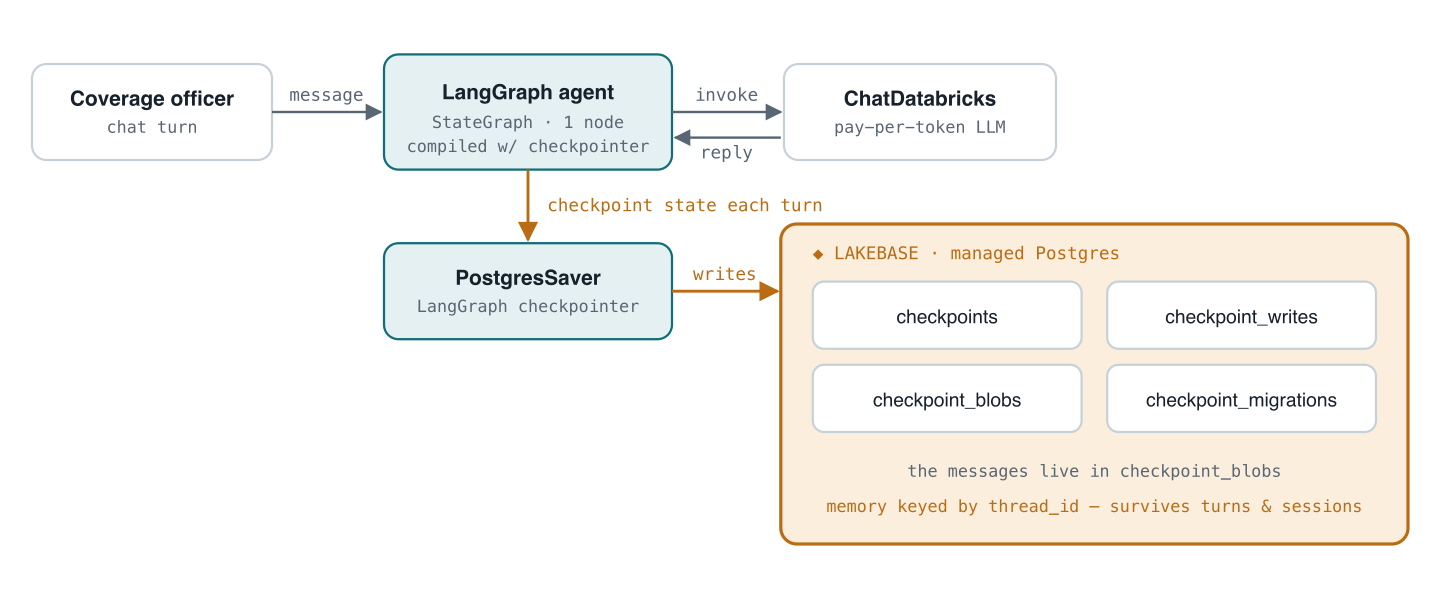
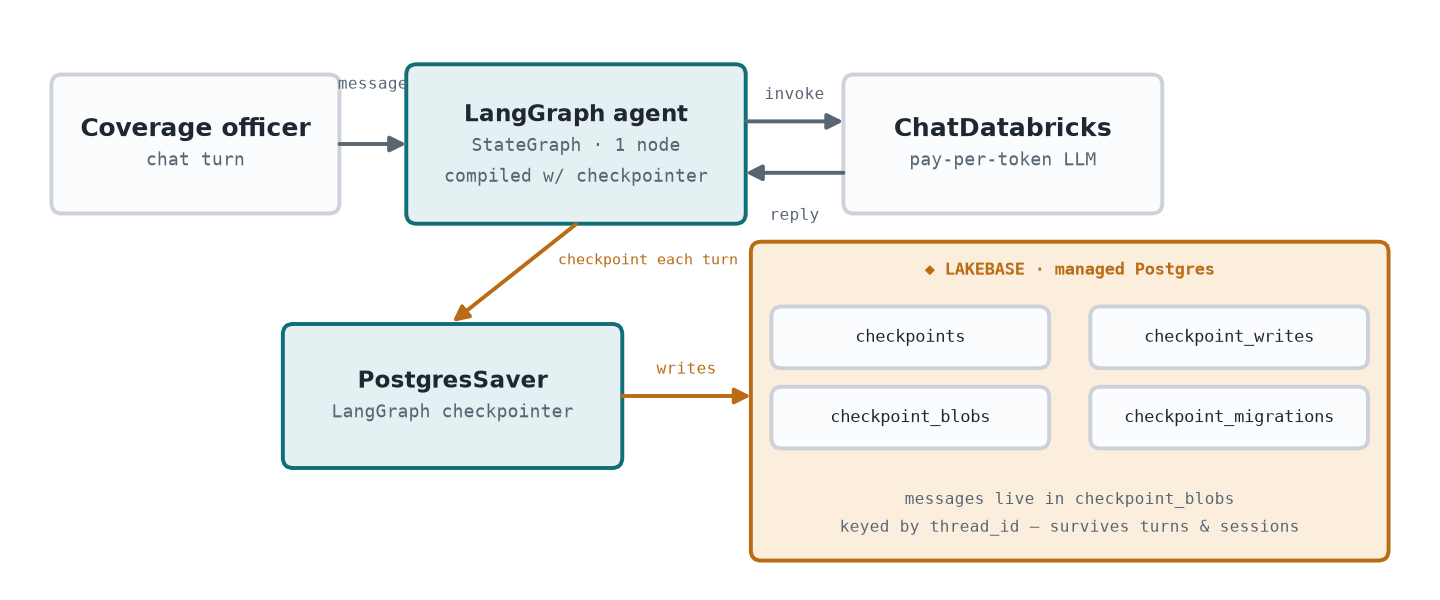
Diagrams: regenerate all six from one generator for a consistent look
Extend scripts/diagrams/build_diagrams.py to build every exercise diagram
(Ex1/3/4/5 in addition to Ex6/7) so all six share one house style and one
source of truth. Re-rendered the four that were previously the original
embedded PNGs — same content, now matching palette/typography/stroke and
regenerable:
- Ex1: load -> autoscaling branch (ascending CU bars) -> scale to zero
- Ex3: REST (HTTPS · OAuth · JSON) and JDBC both reaching the branch
- Ex4: BUILD (features -> sync -> online store) + SERVE (Feature Serving ->
  lookup_client_risk tool <- Coverage Desk Assistant), FeatureSpec elbow
- Ex5: LangGraph agent -> PostgresSaver -> checkpoints/checkpoint_writes/
  checkpoint_blobs/checkpoint_migrations, keyed by thread_id

Run `python scripts/diagrams/build_diagrams.py [exN ...]` to rebuild.

diff --git a/scripts/diagrams/build_diagrams.py b/scripts/diagrams/build_diagrams.py
@@ -1,18 +1,18 @@
 #!/usr/bin/env python3
-"""Regenerate the Ex6 / Ex7 architecture diagrams as PNGs.
+"""Regenerate every exercise's architecture diagram as a PNG, in one house style.
 
-These two round-trip diagrams are kept in sync with the current labs here (the
-other exercises' diagrams were produced earlier and embedded as-is). Style is
-matched to those: white ground, teal for lakehouse/Delta artifacts, orange for
-Lakebase, gray for infrastructure, monospace sub-labels.
+    python scripts/diagrams/build_diagrams.py            # all
+    python scripts/diagrams/build_diagrams.py ex4 ex7    # just some
 
-    python scripts/diagrams/build_diagrams.py
+Style: white ground; teal = lakehouse / Delta / built artifacts, orange =
+Lakebase, gray = infrastructure & external actors; monospace sub-labels; 1408px
+wide (taller diagrams keep proportion). Edit the builders below and re-run — this
+script is the single source of truth for the diagrams embedded in the READMEs.
 
-Requires matplotlib. Writes:
-    labs/06-delta-to-lakebase-sync/images/ex6-delta-sync.png
-    labs/07-lakebase-cdf-to-scd1/images/ex7-cdf-scd1.png
+Requires matplotlib. Each builder writes to labs/<ex>/images/<name>.png.
 """
 import os
+import sys
 import matplotlib
 matplotlib.use("Agg")
 import matplotlib.pyplot as plt
@@ -20,97 +20,219 @@ from matplotlib.patches import FancyBboxPatch, FancyArrowPatch
 
 REPO = os.path.abspath(os.path.join(os.path.dirname(__file__), "..", ".."))
 
-# ── palette (sampled from the existing diagrams) ───────────────────────────
-BG          = "#ffffff"
-TEAL_EDGE   = "#0f6e78"; TEAL_FILL   = "#e4f0f1"
-ORANGE_EDGE = "#b96c13"; ORANGE_FILL = "#fbeedd"
-GRAY_EDGE   = "#cdd2da"; GRAY_FILL   = "#fbfcfd"
-TITLE       = "#1f2733"
-SUB         = "#586673"
-ARROW_GRAY  = "#586673"
-ARROW_ORANGE= "#b96c13"
-
-KIND = {
-    "teal":   (TEAL_EDGE,   TEAL_FILL),
-    "orange": (ORANGE_EDGE, ORANGE_FILL),
-    "gray":   (GRAY_EDGE,   GRAY_FILL),
-}
+# ── palette (sampled from the original embedded diagrams) ──────────────────
+BG           = "#ffffff"
+TEAL_EDGE    = "#0f6e78"; TEAL_FILL    = "#e4f0f1"
+ORANGE_EDGE  = "#b96c13"; ORANGE_FILL  = "#fbeedd"
+GRAY_EDGE    = "#cdd2da"; GRAY_FILL    = "#fbfcfd"
+TITLE_COLOR  = "#1f2733"
+SUB_COLOR    = "#586673"
+ARROW_GRAY   = "#586673"
+ARROW_ORANGE = "#b96c13"
+KIND = {"teal": (TEAL_EDGE, TEAL_FILL), "orange": (ORANGE_EDGE, ORANGE_FILL),
+        "gray": (GRAY_EDGE, GRAY_FILL)}
 
 
-def box(ax, x, y, w, h, kind, title, sub=None, caption=None):
-    """Rounded box centered at (x, y). Optional orange caption line at the top."""
-    edge, fill = KIND[kind]
-    ax.add_patch(FancyBboxPatch(
-        (x - w / 2, y - h / 2), w, h,
-        boxstyle="round,pad=0,rounding_size=0.10",
-        linewidth=2.2, edgecolor=edge, facecolor=fill, mutation_aspect=1))
-    top = y + h / 2
-    ty = y + h * 0.10
-    if caption:
-        ax.text(x, top - h * 0.18, caption, ha="center", va="center",
-                family="monospace", fontsize=9.5, color=ORANGE_EDGE, weight="bold")
-        ty = y - h * 0.02
-    ax.text(x, ty, title, ha="center", va="center",
-            fontsize=14, color=TITLE, weight="bold")
-    if sub:
-        ax.text(x, ty - h * 0.26, sub, ha="center", va="center",
-                family="monospace", fontsize=10, color=SUB)
-
-
-def arrow(ax, x0, x1, y, label, color):
-    ax.add_patch(FancyArrowPatch(
-        (x0, y), (x1, y), arrowstyle="-|>", mutation_scale=18,
-        linewidth=2.2, color=color, shrinkA=0, shrinkB=0))
-    ax.text((x0 + x1) / 2, y + 0.16, label, ha="center", va="bottom",
-            family="monospace", fontsize=9.5, color=color)
-
-
-def canvas(w_px, h_px):
+def _canvas(w_px, h_px):
     fig = plt.figure(figsize=(w_px / 128, h_px / 128), dpi=128)
-    ax = fig.add_axes([0, 0, 1, 1]); ax.set_facecolor(BG)
-    fig.patch.set_facecolor(BG)
+    ax = fig.add_axes([0, 0, 1, 1])
+    fig.patch.set_facecolor(BG); ax.set_facecolor(BG)
     ax.set_xlim(0, 14); ax.set_ylim(0, 14 * h_px / w_px)
     ax.axis("off")
     return fig, ax
 
 
-def save(fig, rel):
+def _rrect(ax, cx, cy, w, h, kind):
+    edge, fill = KIND[kind]
+    ax.add_patch(FancyBboxPatch(
+        (cx - w / 2, cy - h / 2), w, h,
+        boxstyle="round,pad=0,rounding_size=0.10",
+        linewidth=2.2, edgecolor=edge, facecolor=fill, mutation_aspect=1))
+
+
+def node(ax, cx, cy, w, h, kind, title=None, sub=None, caption=None,
+         ts=14, ss=10):
+    """Rounded box with optional orange caption line, bold title, mono sub-line(s)."""
+    _rrect(ax, cx, cy, w, h, kind)
+    subs = [] if sub is None else (sub if isinstance(sub, list) else [sub])
+    if caption:
+        ax.text(cx, cy + h / 2 - 0.30, caption, ha="center", va="center",
+                family="monospace", fontsize=9.5, color=ORANGE_EDGE, weight="bold")
+    # center title + subs in the box (a touch low when a caption sits on top)
+    base = cy - (0.12 if caption else 0) + (0.14 * len(subs))
+    if title:
+        ax.text(cx, base, title, ha="center", va="center",
+                fontsize=ts, color=TITLE_COLOR, weight="bold")
+        y = base - 0.30
+    else:
+        y = base
+    for s in subs:
+        ax.text(cx, y, s, ha="center", va="center",
+                family="monospace", fontsize=ss, color=SUB_COLOR)
+        y -= 0.30
+
+
+def arrow(ax, p0, p1, label=None, color=ARROW_GRAY, ldx=0.0, ldy=0.18,
+          size=18, fs=9.5, ha="center", va="bottom"):
+    ax.add_patch(FancyArrowPatch(p0, p1, arrowstyle="-|>", mutation_scale=size,
+                                 linewidth=2.2, color=color, shrinkA=0, shrinkB=0))
+    if label:
+        mx, my = (p0[0] + p1[0]) / 2 + ldx, (p0[1] + p1[1]) / 2 + ldy
+        ax.text(mx, my, label, ha=ha, va=va, family="monospace", fontsize=fs, color=color)
+
+
+def grouplabel(ax, x, y, text):
+    ax.text(x, y, text, ha="left", va="center", family="monospace",
+            fontsize=10, color=SUB_COLOR, weight="bold")
+
+
+def _save(fig, rel):
     out = os.path.join(REPO, rel)
     os.makedirs(os.path.dirname(out), exist_ok=True)
-    fig.savefig(out, dpi=128, facecolor=BG)
-    plt.close(fig)
+    fig.savefig(out, dpi=128, facecolor=BG); plt.close(fig)
     print("wrote", rel)
 
 
+# ── Ex1 — autoscaling / scale-to-zero ──────────────────────────────────────
+def build_ex1():
+    fig, ax = _canvas(1408, 320); yc = ax.get_ylim()[1] / 2
+    node(ax, 1.95, yc, 3.2, 1.7, "gray", "Load (N workers)", "concurrent queries")
+    # Lakebase branch with little ascending bars
+    _rrect(ax, 7.0, yc, 4.3, 2.4, "orange")
+    ax.text(7.0, yc + 0.85, "◆ YOUR BRANCH · compute endpoint", ha="center",
+            family="monospace", fontsize=9.5, color=ORANGE_EDGE, weight="bold")
+    for i, bh in enumerate([0.35, 0.55, 0.78, 1.02]):
+        ax.add_patch(plt.Rectangle((5.55 + i * 0.42, yc - 0.55), 0.30, bh,
+                                    color="#d29a52", ec="none"))
+    ax.text(7.9, yc + 0.12, "autoscaling", ha="left", family="monospace",
+            fontsize=11, color=TITLE_COLOR, weight="bold")
+    ax.text(7.9, yc - 0.22, "pay per use", ha="left", family="monospace",
+            fontsize=11, color=TITLE_COLOR, weight="bold")
+    ax.text(7.0, yc - 0.92, "1 CU → max, following load", ha="center",
+            family="monospace", fontsize=9.5, color=SUB_COLOR)
+    node(ax, 12.05, yc, 3.2, 1.7, "gray", "scale to zero", "suspends, ~no cost")
+    arrow(ax, (3.6, yc), (4.85, yc), "market open", ARROW_GRAY, fs=9)
+    arrow(ax, (9.15, yc), (10.45, yc), "idle", ARROW_GRAY, fs=9)
+    _save(fig, "labs/01-getting-to-know-lakebase/images/ex1-autoscale.png")
+
+
+# ── Ex3 — REST vs JDBC ─────────────────────────────────────────────────────
+def build_ex3():
+    fig, ax = _canvas(1408, 384); H = ax.get_ylim()[1]
+    yt, yb = H * 0.70, H * 0.30
+    node(ax, 2.1, yt, 3.3, 1.35, "gray", "Serverless / edge app", "any language, no driver")
+    node(ax, 6.75, yt, 3.3, 1.35, "teal", "REST data API", "HTTPS · OAuth · JSON")
+    node(ax, 2.1, yb, 3.3, 1.35, "gray", "JVM service", "pooled connections")
+    node(ax, 6.75, yb, 3.3, 1.35, "teal", "JDBC", "postgresql driver · ssl")
+    node(ax, 11.5, H / 2, 3.4, 2.7, "orange", "managed Postgres",
+         ["clients · positions", "trades"], caption="◆ YOUR LAKEBASE BRANCH")
+    arrow(ax, (3.75, yt), (5.1, yt), "stateless", ARROW_GRAY, fs=9)
+    arrow(ax, (3.75, yb), (5.1, yb), "persistent", ARROW_GRAY, fs=9)
+    arrow(ax, (8.4, yt), (9.8, H / 2 + 0.5), color=ARROW_GRAY)
+    arrow(ax, (8.4, yb), (9.8, H / 2 - 0.5), color=ARROW_GRAY)
+    _save(fig, "labs/03-data-api/images/ex3-rest-vs-jdbc.png")
+
+
+# ── Ex4 — online feature store + assistant ─────────────────────────────────
+def build_ex4():
+    fig, ax = _canvas(1440, 640); H = ax.get_ylim()[1]
+    yt, yb = H * 0.72, H * 0.24
+    grouplabel(ax, 0.3, H - 0.35, "BUILD ▸ offline → Lakebase")
+    node(ax, 1.6, yt, 2.7, 1.4, "gray", "Capital-markets data", "Spark DataFrame", ts=12)
+    node(ax, 5.2, yt, 2.7, 1.4, "teal", "client_risk_features", "Delta · UC · PK + CDF", ts=12)
+    node(ax, 8.8, yt, 2.7, 1.4, "gray", "Sync pipeline", "serverless Lakeflow", ts=12)
+    node(ax, 12.4, yt, 2.7, 1.85, "orange", "Online store",
+         ["client_risk_features_online", "managed Postgres"], caption="◆ LAKEBASE", ts=13, ss=9)
+    arrow(ax, (2.95, yt), (3.85, yt), "aggregate", ARROW_GRAY, fs=8, ldy=0.5)
+    arrow(ax, (6.55, yt), (7.45, yt), "publish", ARROW_GRAY, fs=8, ldy=0.5)
+    arrow(ax, (10.15, yt), (11.05, yt), "CDF sync", ARROW_ORANGE, fs=8, ldy=0.5)
+
+    grouplabel(ax, 0.3, H * 0.46, "SERVE ▸ Lakebase → agent")
+    node(ax, 2.7, yb, 3.1, 1.4, "teal", "Feature Serving", "endpoint (Model Serving)", ts=12)
+    node(ax, 6.9, yb, 3.3, 1.4, "gray", "lookup_client_risk", "tool · MLflow deploy", ts=12)
+    node(ax, 11.4, yb, 3.6, 1.4, "gray", "Coverage Desk Assistant", "LangChain + ChatDatabricks", ts=12)
+    arrow(ax, (4.25, yb), (5.25, yb), "predict()", ARROW_GRAY, fs=8.5)
+    arrow(ax, (9.6, yb), (8.55, yb), "calls", ARROW_GRAY, fs=8.5)   # assistant -> tool
+    # orange connector: online store -> feature serving, an elbow through the mid band
+    midy = H * 0.50
+    ax.plot([12.4, 12.4], [yt - 0.95, midy], color=ARROW_ORANGE, lw=2.2, solid_capstyle="round")
+    ax.plot([12.4, 2.7], [midy, midy], color=ARROW_ORANGE, lw=2.2, solid_capstyle="round")
+    arrow(ax, (2.7, midy), (2.7, yb + 0.72), color=ARROW_ORANGE)
+    ax.text(7.4, midy + 0.18, "FeatureSpec → serves online features", ha="center",
+            va="bottom", family="monospace", fontsize=9, color=ARROW_ORANGE)
+    _save(fig, "labs/04-online-feature-store/images/ex4-feature-store.png")
+
+
+# ── Ex5 — agentic memory ───────────────────────────────────────────────────
+def build_ex5():
+    fig, ax = _canvas(1440, 600); H = ax.get_ylim()[1]
+    yt = H * 0.76
+    node(ax, 1.9, yt, 2.8, 1.35, "gray", "Coverage officer", "chat turn")
+    node(ax, 5.6, yt, 3.3, 1.55, "teal", "LangGraph agent",
+         ["StateGraph · 1 node", "compiled w/ checkpointer"], ts=13)
+    node(ax, 9.75, yt, 3.1, 1.35, "gray", "ChatDatabricks", "pay-per-token LLM")
+    arrow(ax, (3.3, yt), (3.95, yt), "message", ARROW_GRAY, fs=9, ldy=0.5)
+    arrow(ax, (7.25, yt + 0.22), (8.2, yt + 0.22), "invoke", ARROW_GRAY, fs=9)
+    arrow(ax, (8.2, yt - 0.28), (7.25, yt - 0.28), "reply", ARROW_GRAY, fs=9, ldy=-0.34, va="top")
+
+    ym = H * 0.34
+    node(ax, 4.4, ym, 3.3, 1.4, "teal", "PostgresSaver", "LangGraph checkpointer", ts=13)
+    arrow(ax, (5.6, yt - 0.78), (4.4, ym + 0.72), "checkpoint each turn",
+          ARROW_ORANGE, fs=8.5, ldx=1.3, ldy=0.05)
+    # Lakebase box with 4 nested checkpoint tables
+    bx, by, bw, bh = 10.4, ym - 0.05, 6.2, 3.1
+    _rrect(ax, bx, by, bw, bh, "orange")
+    ax.text(bx, by + bh / 2 - 0.32, "◆ LAKEBASE · managed Postgres", ha="center",
+            family="monospace", fontsize=9.5, color=ORANGE_EDGE, weight="bold")
+    tables = ["checkpoints", "checkpoint_writes", "checkpoint_blobs", "checkpoint_migrations"]
+    for i, t in enumerate(tables):
+        col, row = i % 2, i // 2
+        tx = bx - 1.55 + col * 3.1
+        ty = by + 0.62 - row * 0.78
+        _rrect(ax, tx, ty, 2.7, 0.6, "gray")
+        ax.text(tx, ty, t, ha="center", va="center", family="monospace",
+                fontsize=9.5, color=TITLE_COLOR)
+    ax.text(bx, by - bh / 2 + 0.55, "messages live in checkpoint_blobs", ha="center",
+            family="monospace", fontsize=8.8, color=SUB_COLOR)
+    ax.text(bx, by - bh / 2 + 0.28, "keyed by thread_id — survives turns & sessions",
+            ha="center", family="monospace", fontsize=8.8, color=SUB_COLOR)
+    arrow(ax, (6.05, ym), (bx - bw / 2, ym), "writes", ARROW_ORANGE, fs=9)
+    _save(fig, "labs/05-agentic-memory/images/ex5-agent-memory.png")
+
+
+# ── Ex6 — Delta -> Lakebase sync ───────────────────────────────────────────
 def build_ex6():
-    fig, ax = canvas(1408, 320); yc = ax.get_ylim()[1] / 2
-    bw, bh = 3.5, 1.7
-    box(ax, 2.1, yc, bw, bh, "teal",   "src_client_reference", "Delta · UC · PK + CDF")
-    box(ax, 7.0, yc, bw, bh, "gray",   "synced-table pipeline", "serverless · SNAPSHOT / TRIGGERED / CONT.")
-    box(ax, 11.9, yc, bw, bh, "orange", "client_reference", "operational Postgres",
-        caption="◆ YOUR LAKEBASE BRANCH")
-    arrow(ax, 3.95, 5.15, yc, "sync", ARROW_GRAY)
-    arrow(ax, 8.85, 10.05, yc, "CDF", ARROW_ORANGE)
-    save(fig, "labs/06-delta-to-lakebase-sync/images/ex6-delta-sync.png")
+    fig, ax = _canvas(1408, 320); yc = ax.get_ylim()[1] / 2
+    node(ax, 2.1, yc, 3.5, 1.7, "teal", "src_client_reference", "Delta · UC · PK + CDF")
+    node(ax, 7.0, yc, 3.5, 1.7, "gray", "synced-table pipeline", "serverless · SNAPSHOT / TRIGGERED")
+    node(ax, 11.9, yc, 3.5, 1.7, "orange", "client_reference", "operational Postgres",
+         caption="◆ YOUR LAKEBASE BRANCH")
+    arrow(ax, (3.95, yc), (5.15, yc), "sync", ARROW_GRAY)
+    arrow(ax, (8.85, yc), (10.05, yc), "CDF", ARROW_ORANGE)
+    _save(fig, "labs/06-delta-to-lakebase-sync/images/ex6-delta-sync.png")
 
 
+# ── Ex7 — Lakebase CDF -> SCD1 ─────────────────────────────────────────────
 def build_ex7():
-    fig, ax = canvas(1408, 336); yc = ax.get_ylim()[1] / 2
+    fig, ax = _canvas(1408, 336); yc = ax.get_ylim()[1] / 2
     bw, bh = 3.35, 1.95
-    box(ax, 1.9, yc, bw, bh, "orange", "positions · limits", "REPLICA IDENTITY FULL",
-        caption="◆ YOUR LAKEBASE BRANCH")
-    box(ax, 7.0, yc, bw, bh, "teal", "lb_positions_history", "lb_limits_history · Delta")
-    box(ax, 12.1, yc, bw, bh, "teal", "positions_current", "limits_current · SCD Type 1")
-    arrow(ax, 3.7, 5.2, yc, "CDF", ARROW_ORANGE)
-    arrow(ax, 8.8, 10.3, yc, "AUTO CDC", ARROW_GRAY)
-    # small context captions under the two lakehouse boxes
+    node(ax, 1.9, yc, bw, bh, "orange", "positions · limits", "REPLICA IDENTITY FULL",
+         caption="◆ YOUR LAKEBASE BRANCH")
+    node(ax, 7.0, yc, bw, bh, "teal", "lb_positions_history", "lb_limits_history · Delta")
+    node(ax, 12.1, yc, bw, bh, "teal", "positions_current", "limits_current · SCD Type 1")
+    arrow(ax, (3.7, yc), (5.2, yc), "CDF", ARROW_ORANGE)
+    arrow(ax, (8.8, yc), (10.3, yc), "AUTO CDC", ARROW_GRAY)
     ax.text(7.0, yc - bh / 2 - 0.35, "Unity Catalog — auto-created by CDF",
-            ha="center", family="monospace", fontsize=9, color=SUB)
+            ha="center", family="monospace", fontsize=9, color=SUB_COLOR)
     ax.text(12.1, yc - bh / 2 - 0.35, "Lakeflow (DLT) AUTO CDC output",
-            ha="center", family="monospace", fontsize=9, color=SUB)
-    save(fig, "labs/07-lakebase-cdf-to-scd1/images/ex7-cdf-scd1.png")
+            ha="center", family="monospace", fontsize=9, color=SUB_COLOR)
+    _save(fig, "labs/07-lakebase-cdf-to-scd1/images/ex7-cdf-scd1.png")
 
+
+BUILDERS = {"ex1": build_ex1, "ex3": build_ex3, "ex4": build_ex4,
+            "ex5": build_ex5, "ex6": build_ex6, "ex7": build_ex7}
 
 if __name__ == "__main__":
-    build_ex6()
-    build_ex7()
+    which = [a.lower() for a in sys.argv[1:]] or list(BUILDERS)
+    for k in which:
+        BUILDERS[k]()
